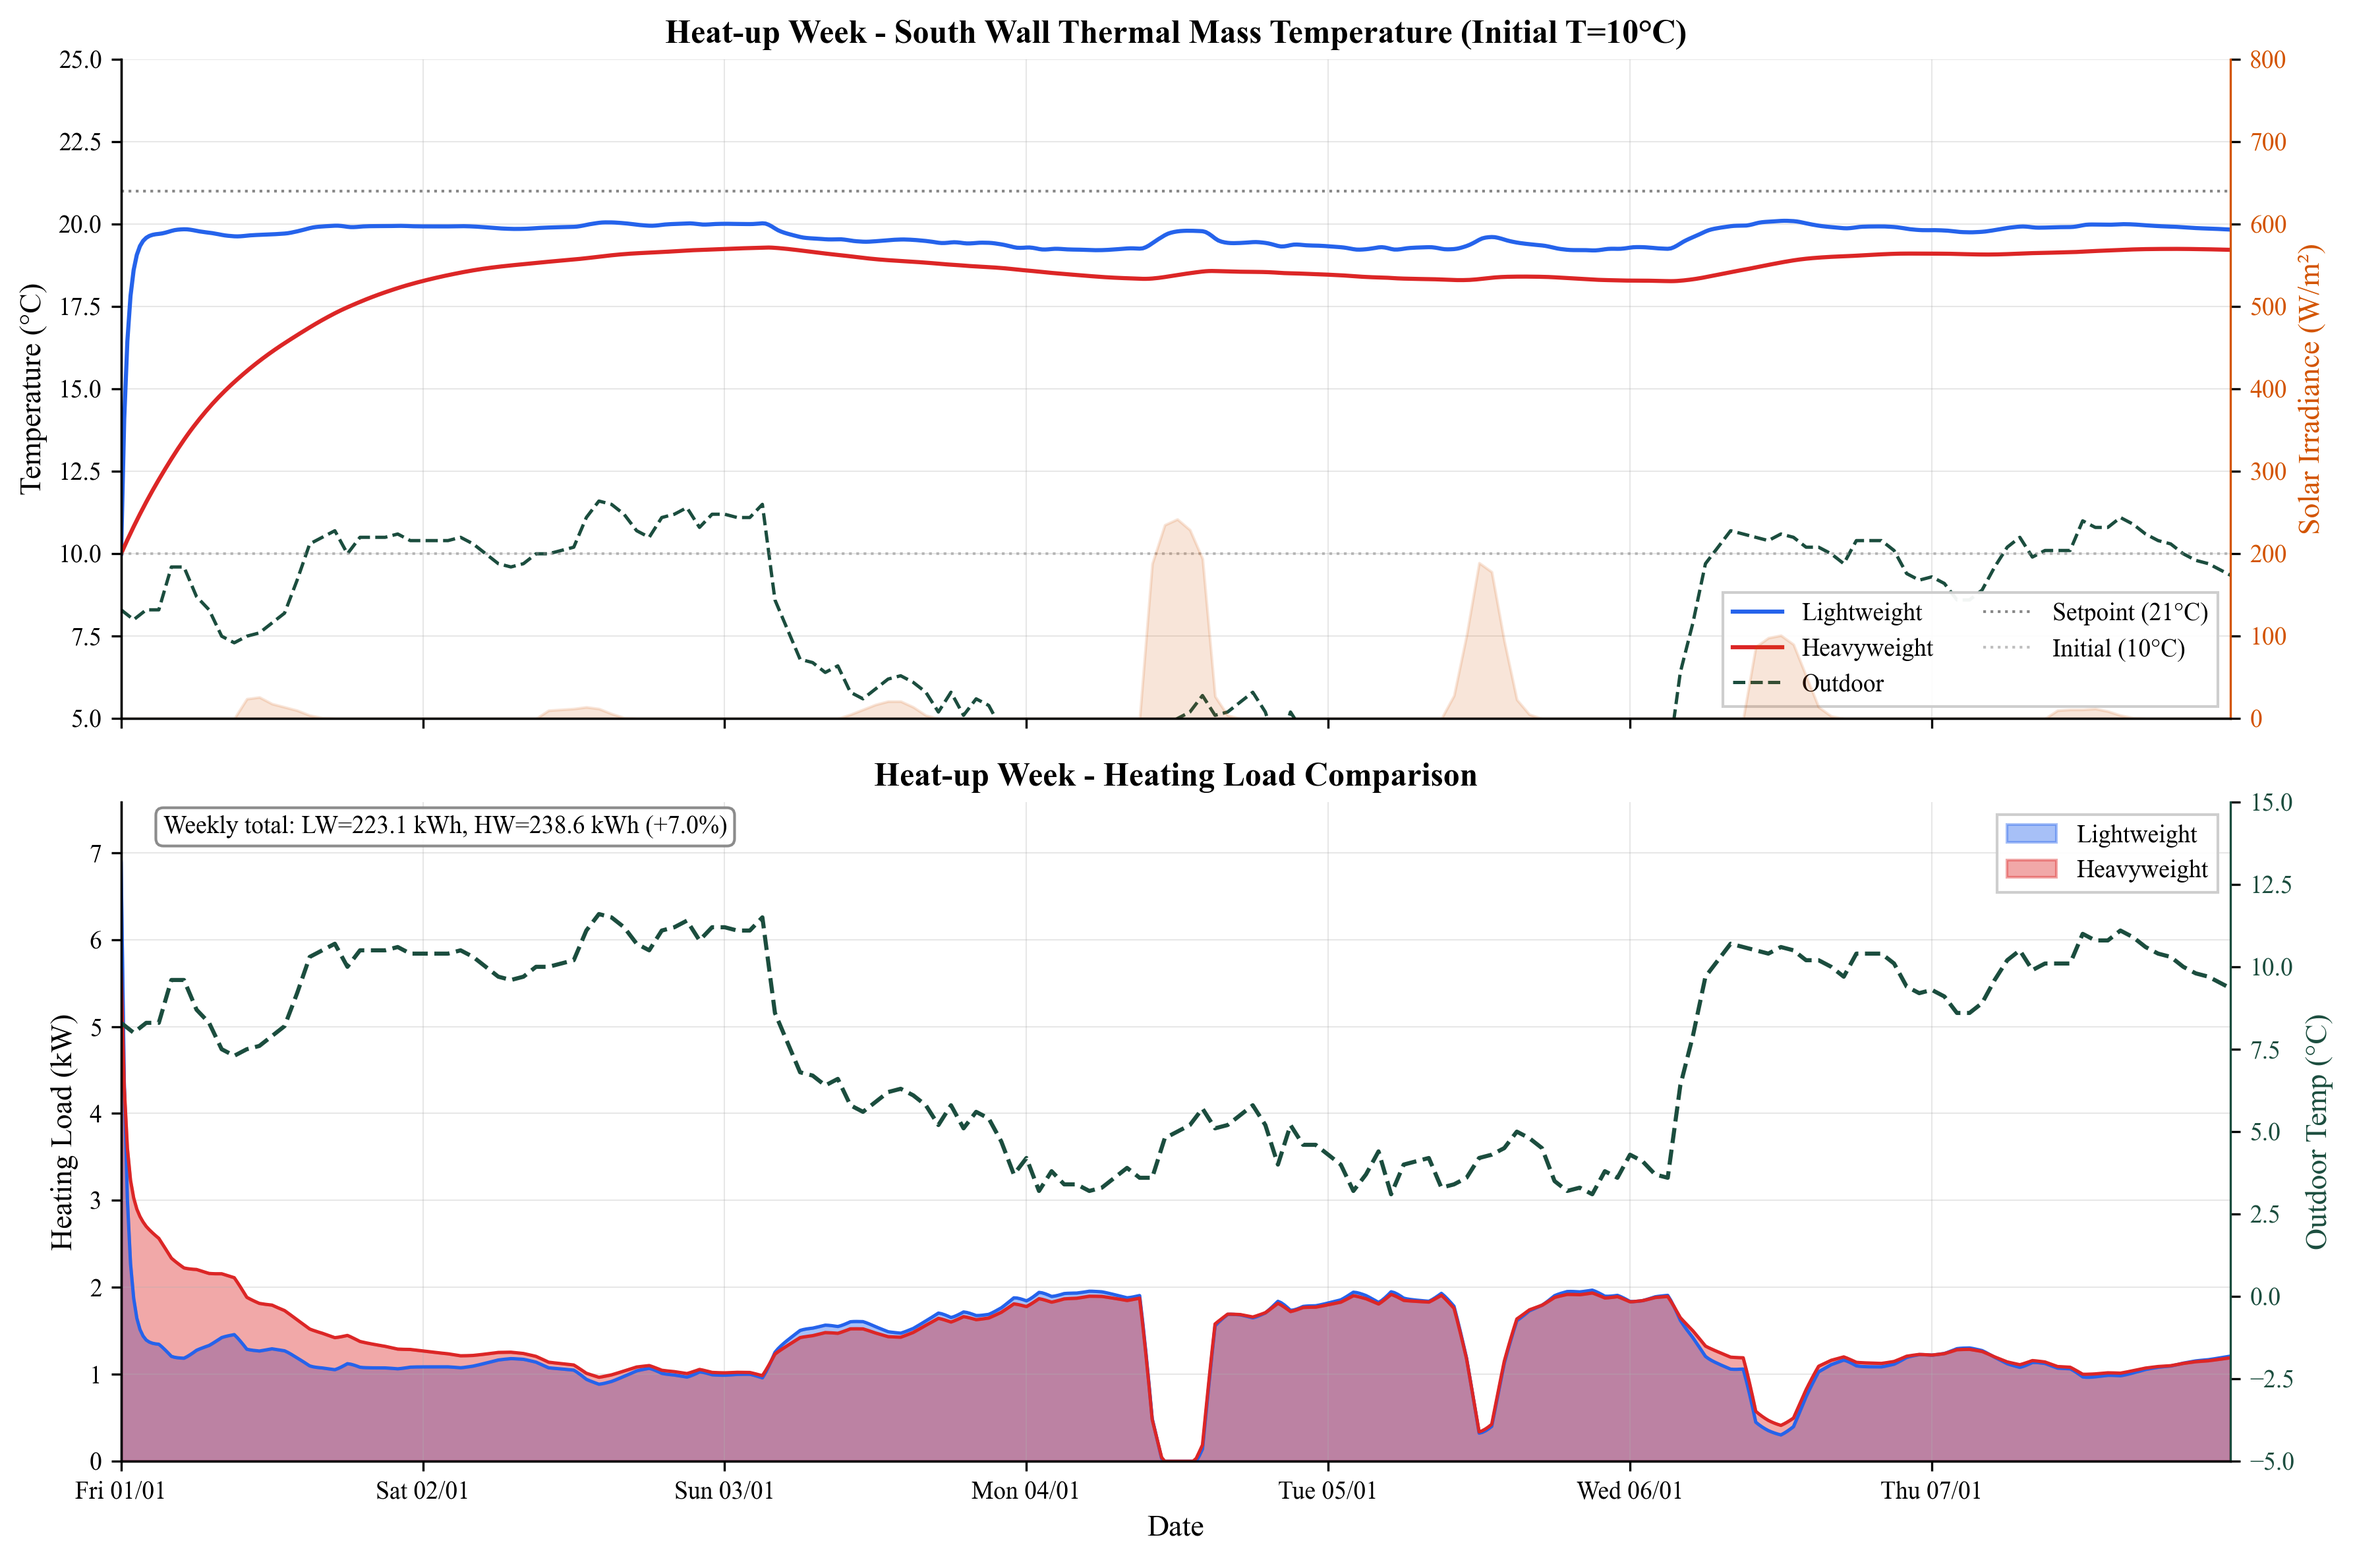
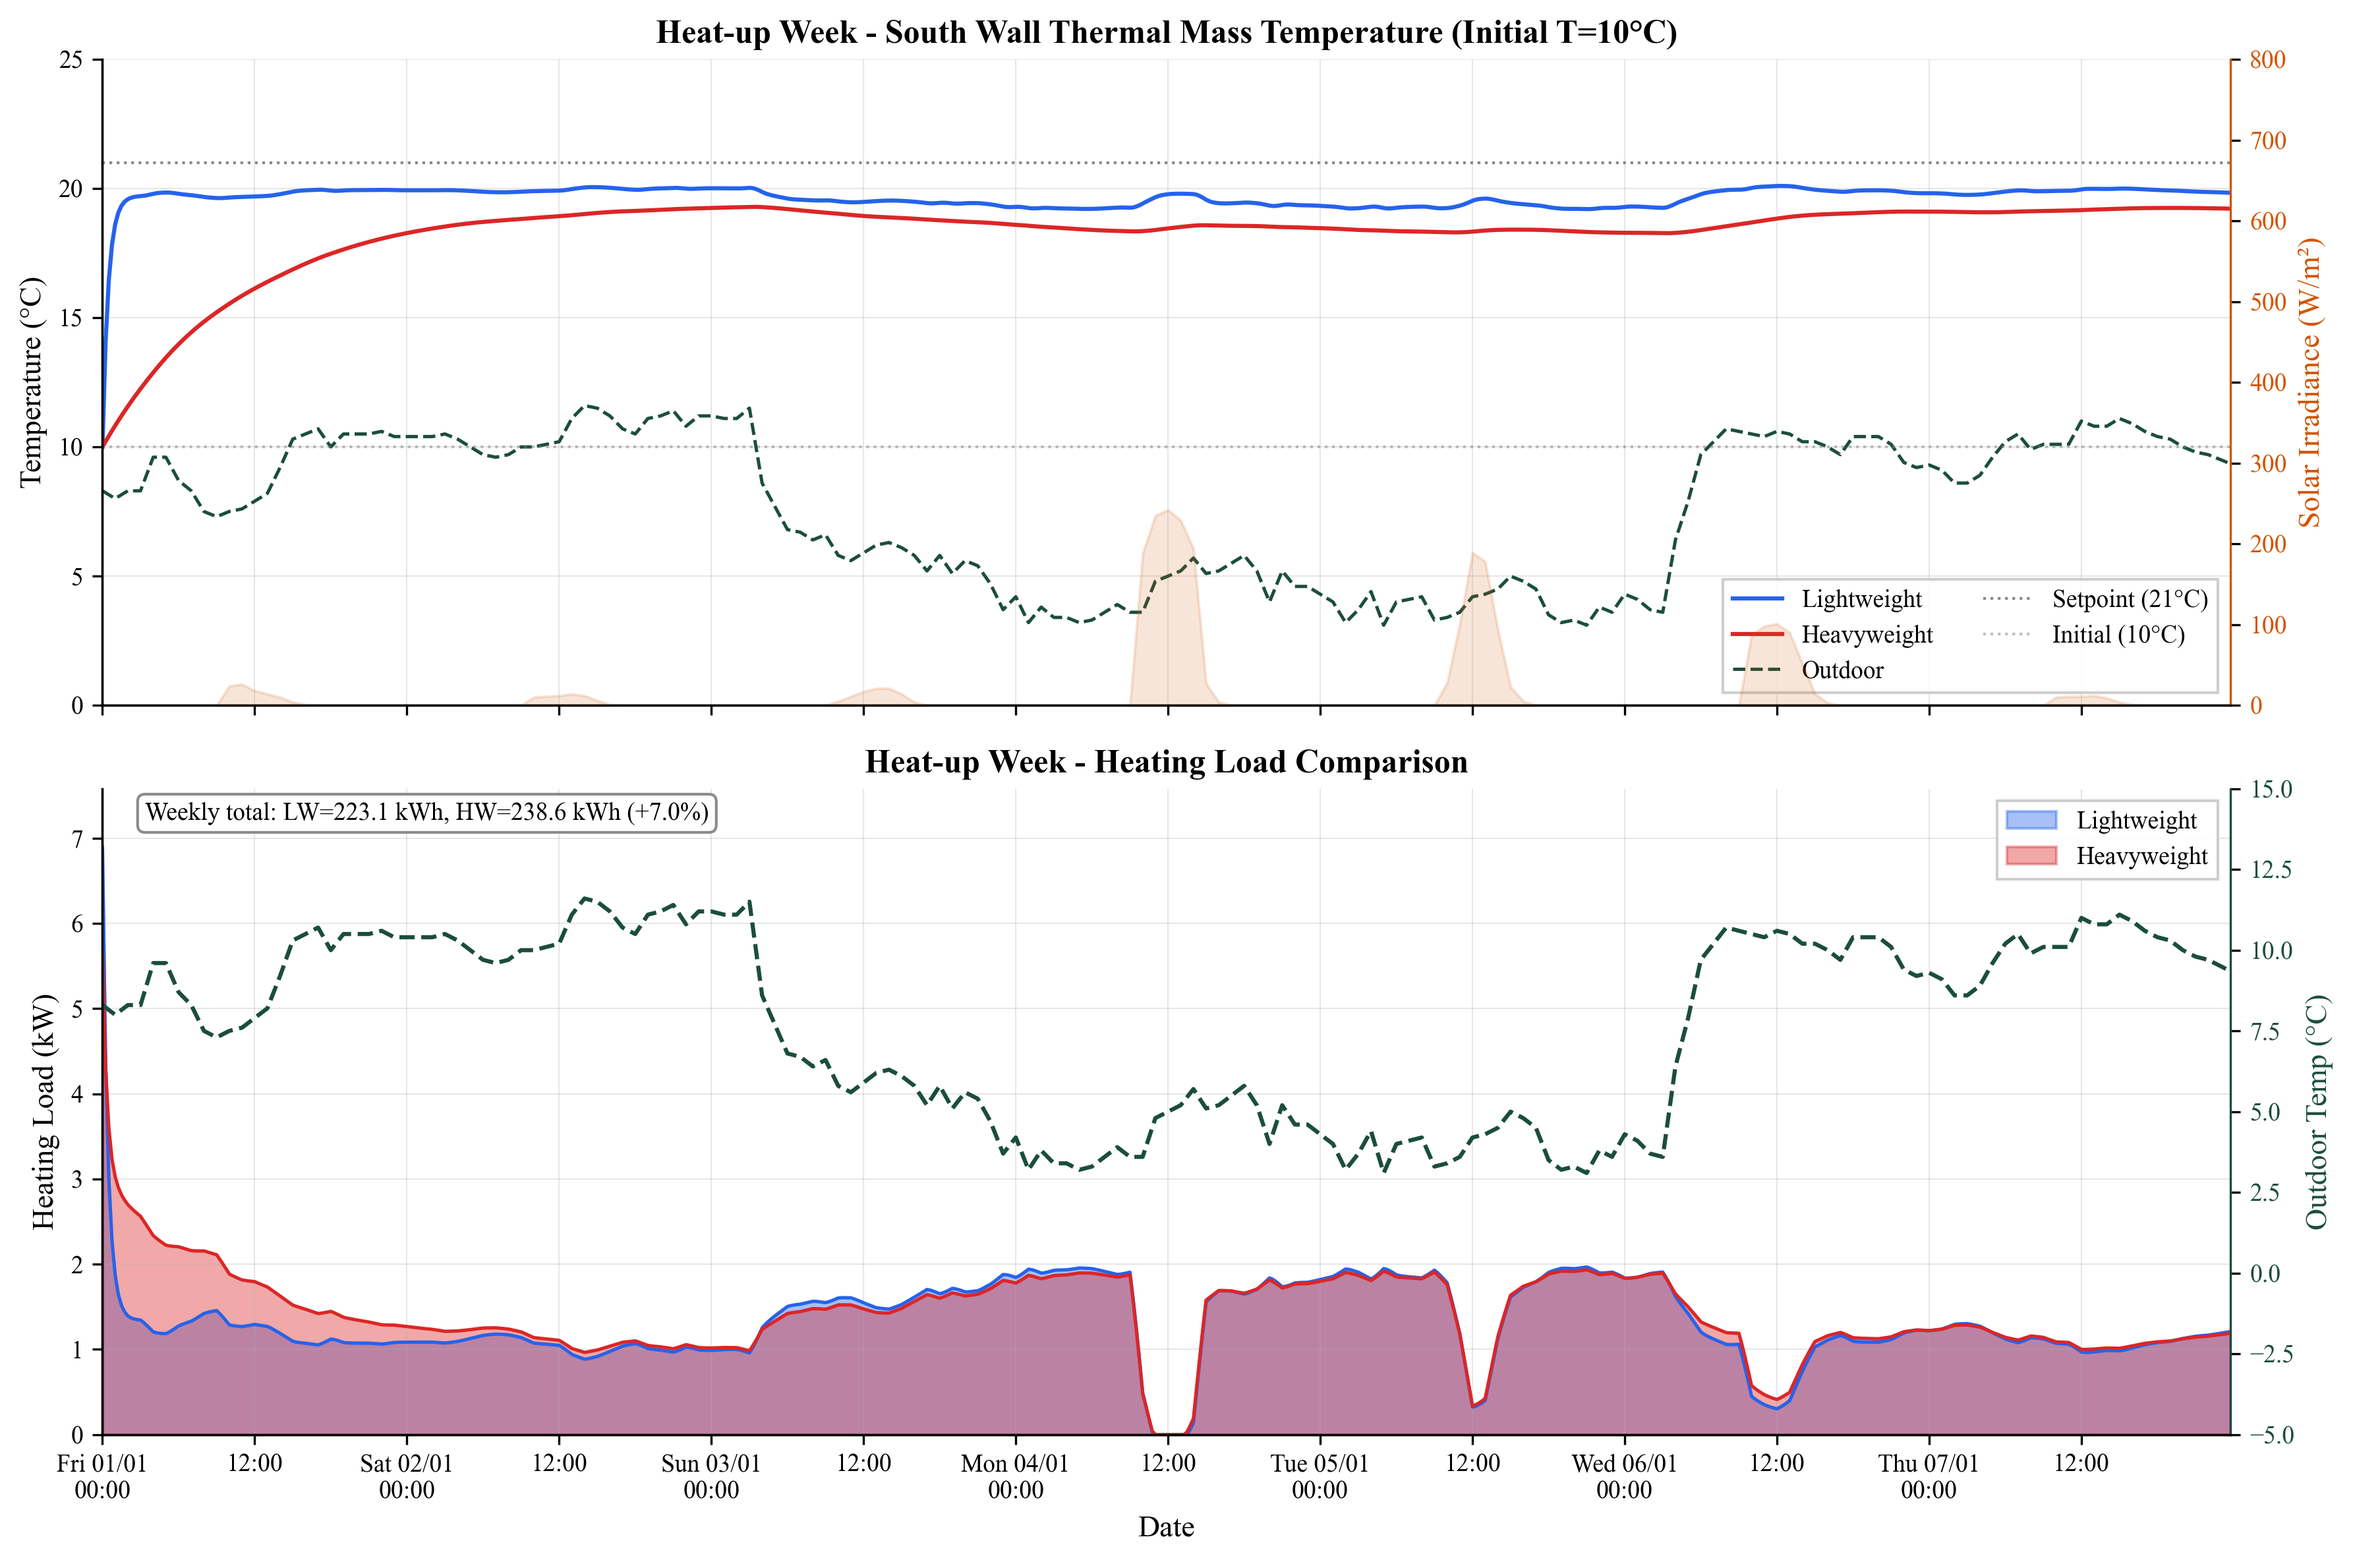
Improves plot axis labels and y limits.
Updates x-axis labels on plots to display both 00:00 and 12:00 times for clarity.
Also adjusts the y-axis limits to start from 0 instead of 5.

diff --git a/src/rc_plots.py b/src/rc_plots.py
@@ -181,14 +181,17 @@ def plot_rc_heatup_week(res_lw: pd.DataFrame, res_hw: pd.DataFrame, weather: pd.
     n_steps = len(data_lw)
     steps = np.arange(n_steps)
 
-    # X-axis labels
+    # X-axis labels - show 00:00 and 12:00
     timestamps = data_lw['timestamp']
     tick_positions = []
     tick_labels = []
     for i, ts in enumerate(timestamps):
         if ts.hour == 0 and ts.minute == 0:
             tick_positions.append(i)
-            tick_labels.append(ts.strftime('%a %d/%m'))
+            tick_labels.append(ts.strftime('%a %d/%m\n00:00'))
+        elif ts.hour == 12 and ts.minute == 0:
+            tick_positions.append(i)
+            tick_labels.append('12:00')
 
     fig, axes = plt.subplots(2, 1, figsize=(12, 8), sharex=True)
 
@@ -201,7 +204,7 @@ def plot_rc_heatup_week(res_lw: pd.DataFrame, res_hw: pd.DataFrame, weather: pd.
     ax1.axhline(10, color='gray', ls=':', lw=1, alpha=0.5, label='Initial (10°C)')
 
     ax1.set_ylabel('Temperature (°C)')
-    ax1.set_ylim(5, 25)
+    ax1.set_ylim(0, 25)
     ax1.legend(loc='lower right', frameon=True, fancybox=False, ncol=2)
     ax1.grid(True, alpha=0.3, lw=0.5)
     ax1.set_title('Heat-up Week - South Wall Thermal Mass Temperature (Initial T=10°C)')
@@ -280,14 +283,17 @@ def plot_rc_shoulder_week(res_lw: pd.DataFrame, res_hw: pd.DataFrame, weather: p
     n_steps = len(data_lw)
     steps = np.arange(n_steps)
 
-    # X-axis labels
+    # X-axis labels - show 00:00 and 12:00
     timestamps = data_lw['timestamp']
     tick_positions = []
     tick_labels = []
     for i, ts in enumerate(timestamps):
         if ts.hour == 0 and ts.minute == 0:
             tick_positions.append(i)
-            tick_labels.append(ts.strftime('%a %d/%m'))
+            tick_labels.append(ts.strftime('%a %d/%m\n00:00'))
+        elif ts.hour == 12 and ts.minute == 0:
+            tick_positions.append(i)
+            tick_labels.append('12:00')
 
     fig, ax = plt.subplots(figsize=(12, 5))
 
@@ -299,7 +305,7 @@ def plot_rc_shoulder_week(res_lw: pd.DataFrame, res_hw: pd.DataFrame, weather: p
 
     ax.set_ylabel('Temperature (°C)')
     ax.set_xlabel('Date')
-    ax.set_ylim(5, 25)
+    ax.set_ylim(0, 25)
     ax.legend(loc='lower right', frameon=True, fancybox=False)
     ax.grid(True, alpha=0.3, lw=0.5)
     ax.set_title('Shoulder Week - South Wall Thermal Mass Temperature')
@@ -344,14 +350,17 @@ def plot_rc_shoulder_heating(res_lw: pd.DataFrame, res_hw: pd.DataFrame, weather
     n_steps = len(data_lw)
     steps = np.arange(n_steps)
 
-    # X-axis labels
+    # X-axis labels - show 00:00 and 12:00
     timestamps = data_lw['timestamp']
     tick_positions = []
     tick_labels = []
     for i, ts in enumerate(timestamps):
         if ts.hour == 0 and ts.minute == 0:
             tick_positions.append(i)
-            tick_labels.append(ts.strftime('%a %d/%m'))
+            tick_labels.append(ts.strftime('%a %d/%m\n00:00'))
+        elif ts.hour == 12 and ts.minute == 0:
+            tick_positions.append(i)
+            tick_labels.append('12:00')
 
     fig, ax = plt.subplots(figsize=(12, 5))
 
